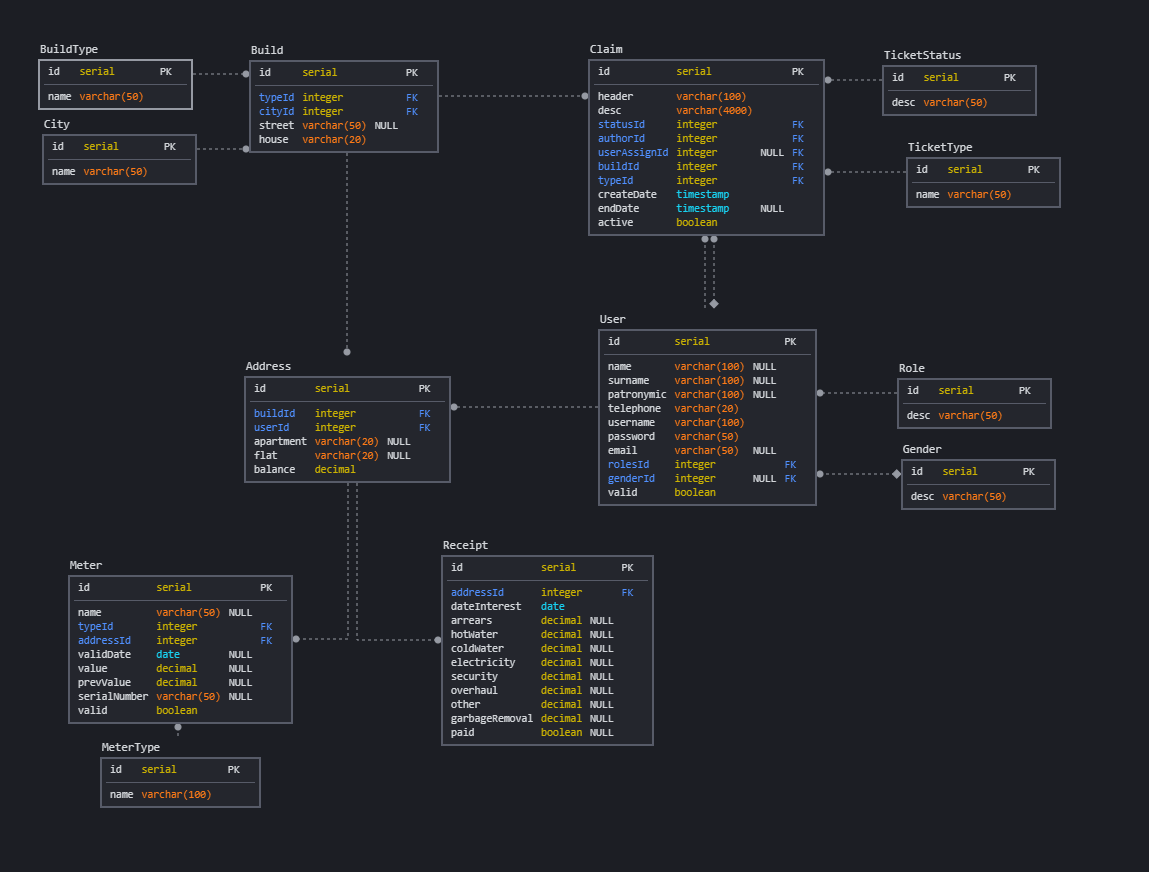
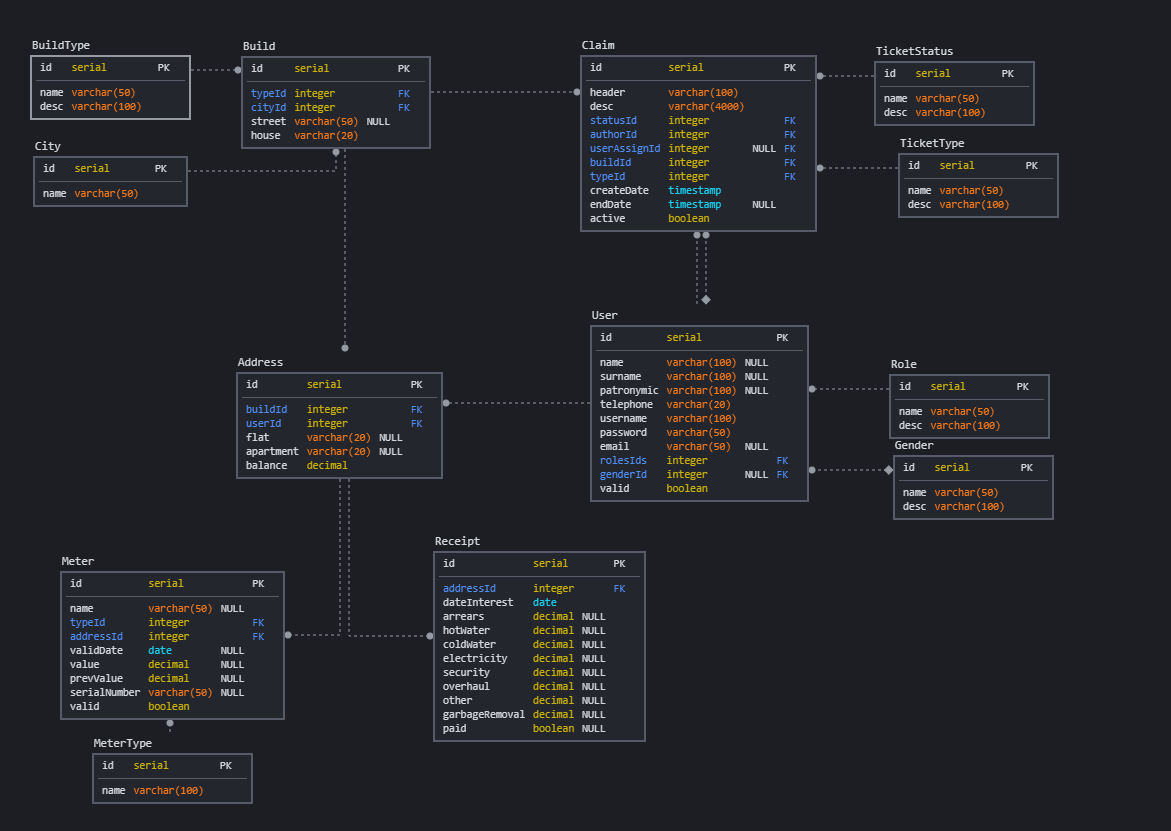
hw1 дополнение описания сущностей

diff --git a/homework1/README.md b/homework1/README.md
@@ -23,18 +23,92 @@
 
 ### <a id="Doc"></a> 2. Документация
 * Build - Подключенное здание которому предоставляется ЖКХ услуги
+  - id
+  - typeId - тип постройки
+  - cityId - код города
+  - street - название улицы
+  - house - номер дома
 * BuildType - Тип здания (Многоквартирный дом, частный участок, гараж, магазин ...)
+  - id
+  - name - название типа здания
+  - desc - описание типа здания
 * City - Город
+  - id
+  - name - название города
 * Address - Адрес по которому предоставляется услуга
+  - id
+  - buildId - идентификатор постройки
+  - userId - идентификатор пользователя
+  - flat - этаж
+  - apartment - квартира
+  - balance - сумма на балансе адреса
 * Receipt - Ежемесячный счёт за ЖКХ услуги
+  - id
+  - addressId - идентификатор адреса
+  - dateInterest - дата начисления
+  - arrears - задолженность
+  - hotWater - начисление за использование горячей воды
+  - coldWater - начисление за использование холодной воды
+  - electricity - начисление за использованную эл. энергию
+  - security - начисление за охрану
+  - overhaul - начисление за капитальный ремонт
+  - garbageRemoval - начисление за вывоз мусора
+  - other - начисление за разные услуги
+  - paid - произведена ли оплата по данному платежу
 * Meter - Счётчик
+  - id
+  - name - название счетчика
+  - typeId - тип счетчика
+  - addressId - идентификатор постройки к которому привязан прибор
+  - validDate - дата проверки
+  - value - значение счётчика
+  - prevValue - предыдущее значение счётчика
+  - serialNumber - серийный номер счётчика
+  - valid - используется ли счётчик
 * MeterType - Тип счётчика
+  - id
+  - name - Название типа счётчик
 * User - Пользователь
+  - id
+  - name - имя
+  - surname - фамилия
+  - patronymic - отчество
+  - telephone - телефонный номер
+  - username - логин
+  - password - пароль
+  - email - электронная почта
+  - rolesIds - тип ролей пользователя
+  - genderId - половая принадлежность
+  - valid - активированная ли учетная запись
 * Role - Роль пользователя (клиент, оператор, исполнитель услуг ...)
-* Gender - Пол
+  - id
+  - name - название роли
+  - desc - описание роли
+* Gender - Половая принадлежность
+  - id
+  - name - название половая принадлежности
+  - desc - описание половая принадлежности
 * Claim - Заявка/Жалоба на предоставление услуги
+  - id
+  - header - заголовок заявки
+  - desc - описание заявки
+  - desc - описание заявки
+  - statusId - идентификатор статуса заявки
+  - authorId - идентификатор пользователя который завёл заявку
+  - userAssignId - идентификатор пользователя на котором находится заявка
+  - buildId - идентификатор строения по которому необходимо произвести услугу
+  - typeId - идентификатор услуги
+  - createDate - дата заведения заявки на услуги
+  - endDate - дата завершения заявки на услуги
+  - active - выполнена ли заявка
 * TicketStatus - Статус заявки (Создана, в работе, выполнена, отправлена на доработку ...)
+  - id
+  - name - название статуса
+  - desc - описание статуса
 * TicketType - Тип заявки (Вызов сантехника, вызов электрика, сломан лифт, сломалось общедомовое оборудывание ... )
+  - id
+  - name - название типа заявки
+  - desc - описание типа заявки
 
 ### <a id="Example"></a> 3. Примеры бизнес-задач которые решает база
 * Пользователь
